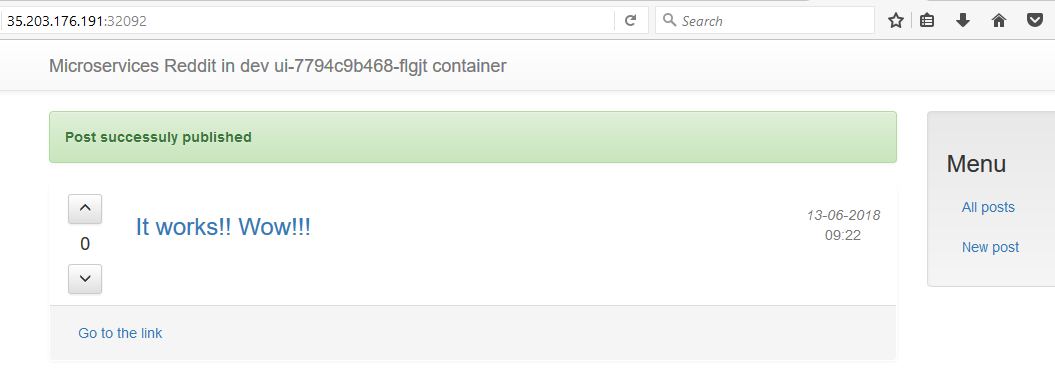
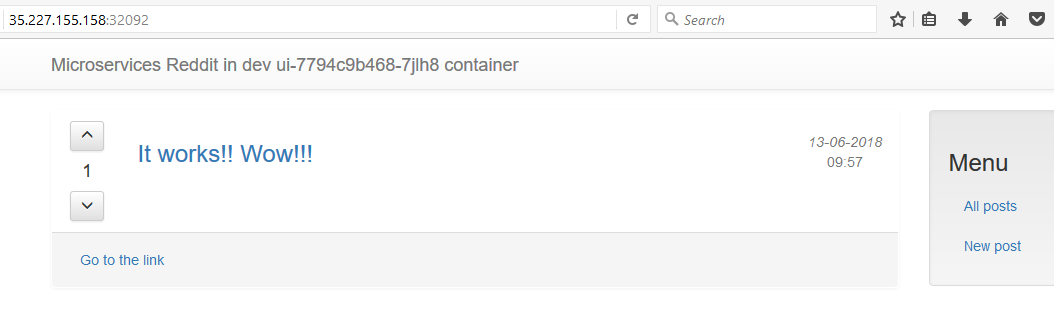
edited UI_SCREENSHOT

diff --git a/README.md b/README.md
@@ -303,7 +303,7 @@ solomon585858 microservices repository
 #### Как проверить работоспособность:
  - Список созданных **Pods** можно посмотреть с помощью команды **kubectl get pods -o wide -n dev**
  - Список созданных **Deployments** можно посмотреть с помощью команды **kubectl get deployments -o wide -n dev**
- - Веб-интерфейс приложения **reddit** должен быть доступен по ссылке **http://node-ip:NodePort**. В нашем случае это **http://35.203.176.191:32092/**. Скриншот выложен в виде файла **kubernetes/reddit/UI_SCREENSHOT.png**
+ - Веб-интерфейс приложения **reddit** должен быть доступен по ссылке **http://node-ip:NodePort**. В нашем случае это **http://35.227.155.158:32092/**. Скриншот выложен в виде файла **kubernetes/reddit/UI_SCREENSHOT.png**
  
 #### PR checklist
  - [x] Выставил label **Homework-23** с номером домашнего задания
